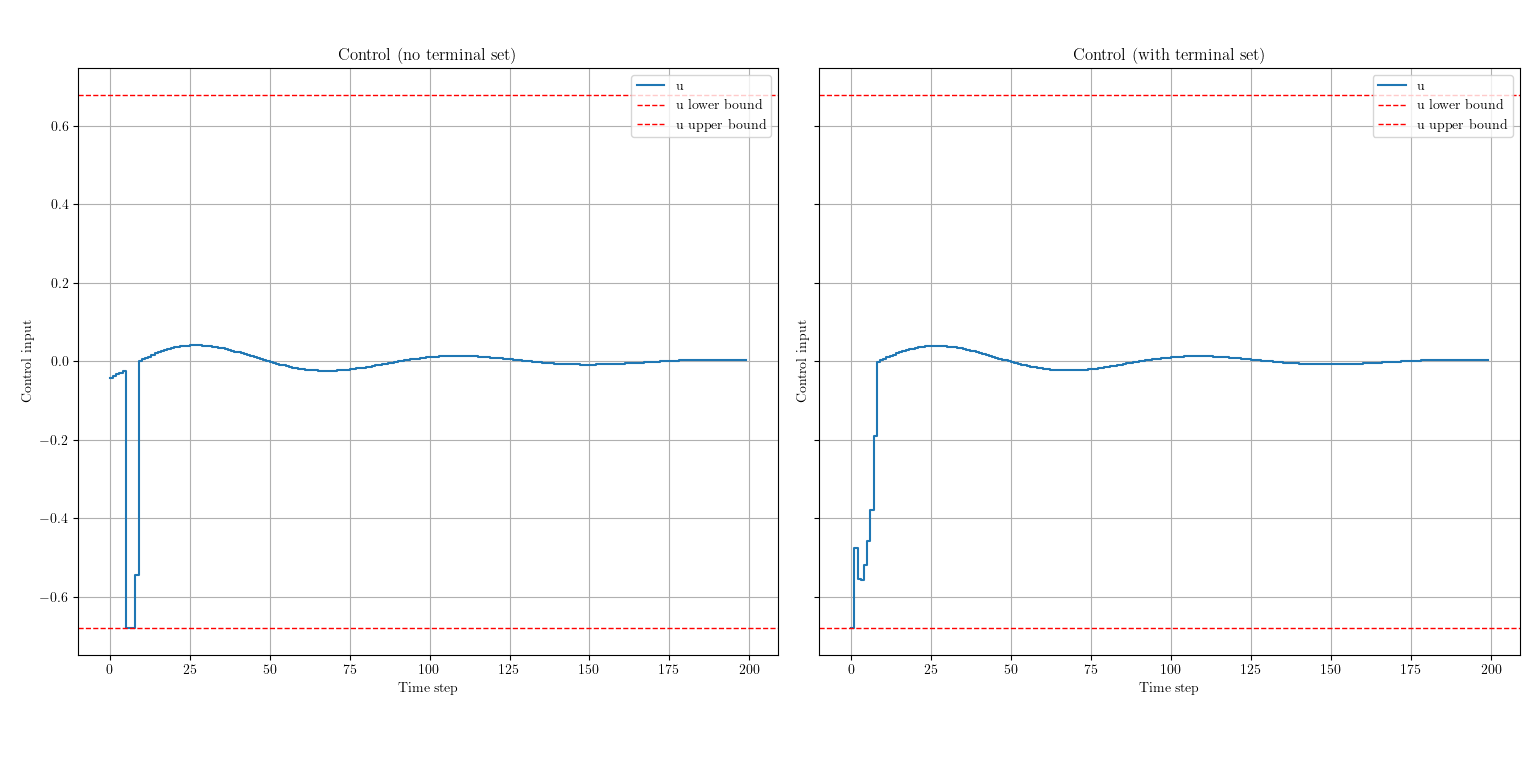
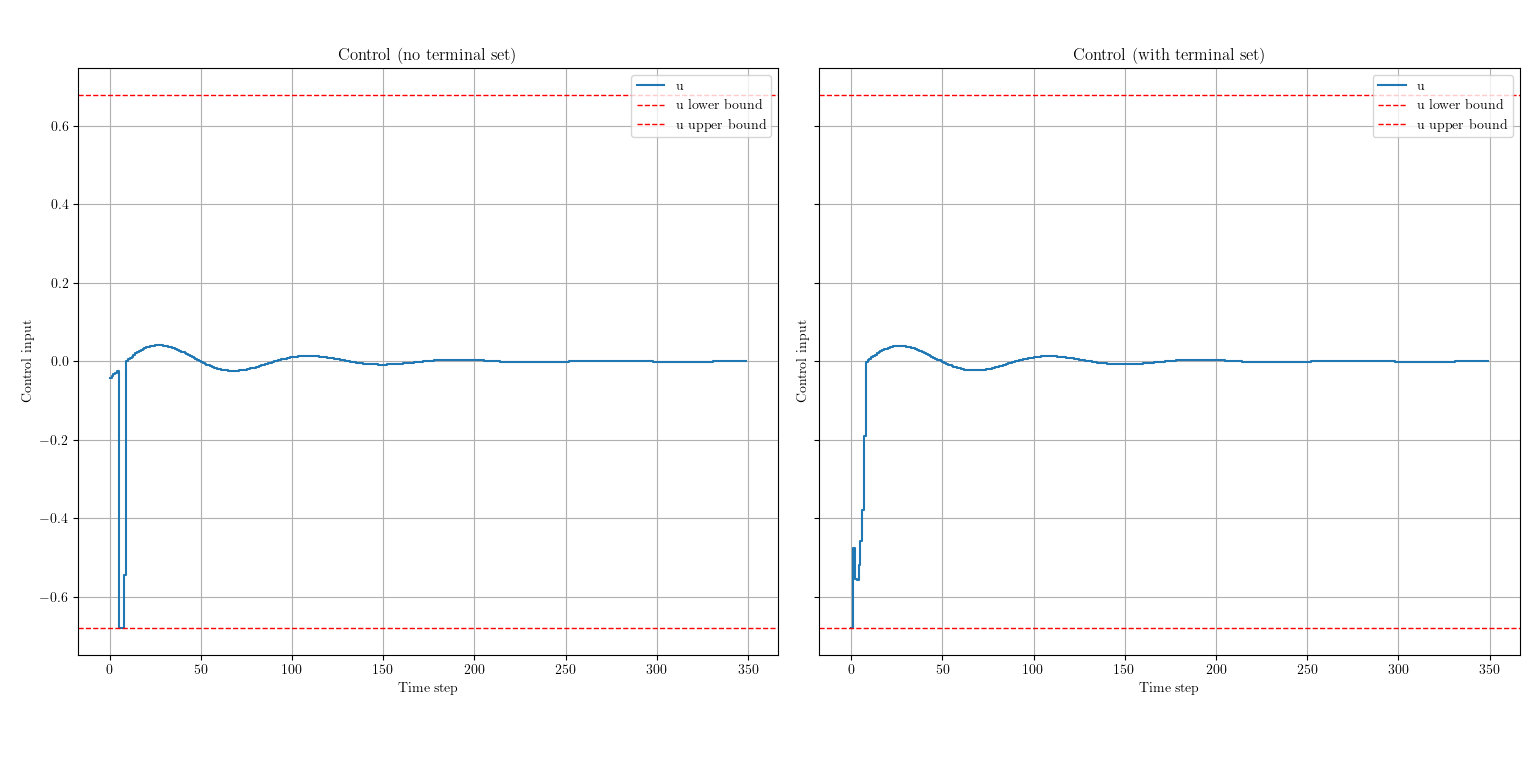
update

diff --git a/algorithm/Mass_s_d_controller.py b/algorithm/Mass_s_d_controller.py
@@ -220,7 +220,7 @@ solver_output = solver(**solver_input)
 x_opt = solver_output['x'] 
 
 #simulation time 
-Nmpc=200
+Nmpc=350
 
 
 def run_closed_loop_mpc(x0, Nmpc, lbx, ubx, lbg, ubg, solver, system):
@@ -265,9 +265,9 @@ def run_closed_loop_mpc(x0, Nmpc, lbx, ubx, lbg, ubg, solver, system):
 
 X_traj, U_traj, t= run_closed_loop_mpc(x0, Nmpc, lbx, ubx, lbg, ubg, solver, system)
 
-#np.save("X_optimal",X_traj)
-#np.save("U_optimal",U_traj)
-np.save("t_p",t)
+np.save("X_optimal",X_traj)
+np.save("U_optimal",U_traj)
+
 
 #plot trajectories 
 

diff --git a/algorithm/Mass_s_d_controller_terminal_set.py b/algorithm/Mass_s_d_controller_terminal_set.py
@@ -266,7 +266,7 @@ g = vertcat(*g)
 lbg = vertcat(*lb_g)
 ubg = vertcat(*ub_g)
 
-sim_steps= 200
+sim_steps= 350
 # solver creation
 prob = {'f':J,'x':xu,'g':g}
 solver_with_terminal_set = nlpsol('solver','ipopt',prob)

diff --git a/algorithm/plot_func.py b/algorithm/plot_func.py
@@ -119,10 +119,6 @@ def plot_traj_comparison(X_traj, U_traj, X_traj_ts, U_traj_ts,
     plt.show()
 
 
-
-
-
-
 ub_x=  np.array([1, 1])
 ub_u = np.array([0.68])
 
